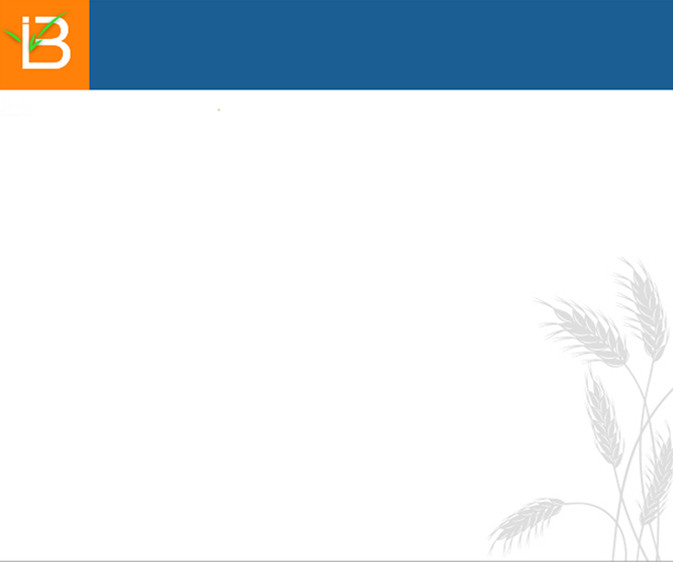
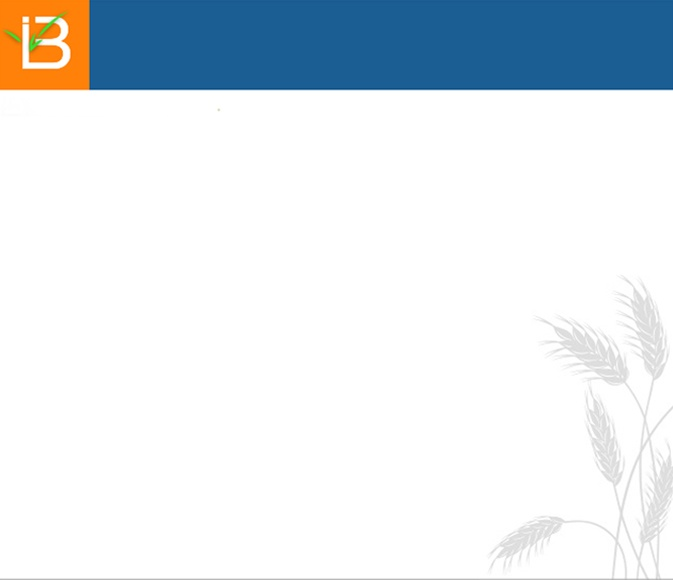
UI Fixes on Login and Register Forms

diff --git a/src/main/java/org/generationcp/ibpworkbench/ui/UserAccountPanel.java b/src/main/java/org/generationcp/ibpworkbench/ui/UserAccountPanel.java
@@ -75,23 +75,23 @@ public class UserAccountPanel extends Panel {
 
     protected void initializeComponents() {
         vl = new VerticalLayout();
-        
+        setContent(vl);
+
+        // login panel layout
+        VerticalLayout loginPanelLayout = new VerticalLayout();
+        loginPanelLayout.setImmediate(false);
+        loginPanelLayout.setStyleName("gcp-login");
+        loginPanelLayout.setHeight("90px");
+        loginPanelLayout.setMargin(true, false, true, false);
+        vl.addComponent(loginPanelLayout);
+
         lblTitle = new Label();
         lblTitle.setWidth("100%");
-        lblTitle.setStyleName("gcp-login-title");
-        
-        setContent(vl);
-        
+        lblTitle.setStyleName("gcp-login-title gcp-user-account-title");
+        loginPanelLayout.addComponent(lblTitle);
+
         form = new UserAccountForm(new UserAccountModel());
-        spaceLayout = new HorizontalLayout();
-        spaceLayout.setHeight(100);
-        spaceLayout.addComponent(lblTitle);
-        
-        
-        smallSpaceLayout = new HorizontalLayout();
-        smallSpaceLayout.setHeight(10);
-        
-        vl.addComponent(spaceLayout);
+
         vl.addComponent(form);
        
         saveButton = new Button();
@@ -101,7 +101,6 @@ public class UserAccountPanel extends Panel {
         buttonLayout.addComponent(saveButton);
         buttonLayout.addComponent(cancelButton);
         vl.addComponent(buttonLayout);
-        vl.addComponent(smallSpaceLayout);
         vl.setStyleName("v-panel-content-gcp-createuser");
     }
     
@@ -115,12 +114,13 @@ public class UserAccountPanel extends Panel {
     protected void initializeLayout() {
         setImmediate(false);
         setWidth("675px");
-        
-        form.setHeight("400px");
-        
+        setHeight("580px");
+
         vl.setMargin(false);
+        vl.setSpacing(true);
+
         vl.setComponentAlignment(form, Alignment.MIDDLE_CENTER);
-        vl.setComponentAlignment(buttonLayout, Alignment.MIDDLE_RIGHT);
+        vl.setComponentAlignment(buttonLayout, Alignment.MIDDLE_CENTER);
         
         buttonLayout.setWidth("140px");
     }

diff --git a/src/main/java/org/generationcp/ibpworkbench/ui/form/UserAccountForm.java b/src/main/java/org/generationcp/ibpworkbench/ui/form/UserAccountForm.java
@@ -13,6 +13,7 @@ package org.generationcp.ibpworkbench.ui.form;
 
 import java.util.Arrays;
 
+import com.vaadin.ui.Layout;
 import org.generationcp.ibpworkbench.model.UserAccountModel;
 import org.generationcp.ibpworkbench.model.formfieldfactory.UserAccountFormFieldFactory;
 
@@ -32,7 +33,7 @@ import com.vaadin.ui.GridLayout;
  * <br>
  * <b>File Created</b>: Jul 11, 2012
  */
-public class UserAccountForm extends Form{
+public class UserAccountForm extends Form {
 
     private static final long serialVersionUID = -7726164779128415602L;
     
@@ -59,7 +60,7 @@ public class UserAccountForm extends Form{
     	setImmediate(false);
         grid = new GridLayout(4, 7);
         grid.setSpacing(true);
-        grid.setMargin(true);
+        grid.setMargin(new Layout.MarginInfo(true,true,true,true));
         
         setLayout(grid);
         

diff --git a/src/main/java/org/generationcp/ibpworkbench/ui/form/LoginForm.java b/src/main/java/org/generationcp/ibpworkbench/ui/form/LoginForm.java
@@ -191,7 +191,8 @@ public class LoginForm extends CustomComponent implements InitializingBean, Inte
         
         
         HorizontalLayout subLinksLayout = new HorizontalLayout();
-        subLinksLayout.setSizeUndefined();
+        subLinksLayout.setWidth("290px");
+        subLinksLayout.setHeight("30px");
         //subLinksLayout.setMargin(true,false,true,false);
         subLinksLayout.setSpacing(true);
         
